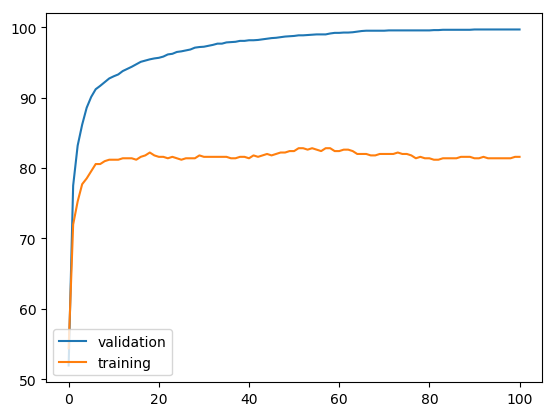
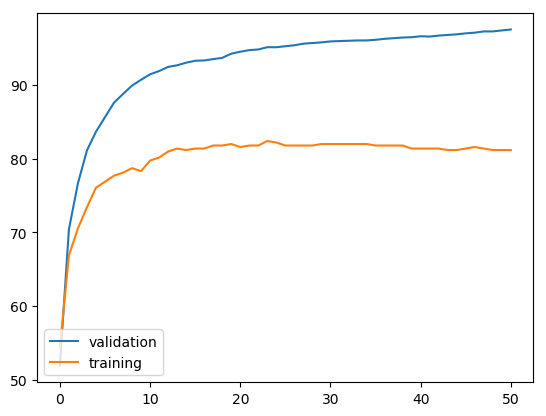
dropout and L2 added

diff --git a/p3/logistic.py b/p3/logistic.py
@@ -1,13 +1,15 @@
 from plot import *
+from const import *
 
 class LogisticRegression(nn.Module):
     def init_weights(self):
-        nn.init.xavier_uniform(self.features[0].weight.data)
-        nn.init.constant(self.features[0].bias, 0.1)
+        nn.init.xavier_uniform(self.features[1].weight.data)
+        nn.init.constant(self.features[1].bias, 0.1)
 
     def __init__(self, input_size, num_classes):
         super(LogisticRegression, self).__init__()
         self.features = nn.Sequential(
+            nn.Dropout(),
             nn.Linear(input_size, num_classes),
             nn.Sigmoid())
         
@@ -16,7 +18,19 @@ class LogisticRegression(nn.Module):
     def forward(self, x):
         return self.features(x)
 
-def train(model, loss_fn, num_epochs, batch_size, learn_rate):
+def L1(model):
+    reg = Variable(torch.FloatTensor(1), requires_grad=True).type(dtype_float)
+    for W in model.parameters():
+        reg = reg + W.norm(1)
+    return reg
+
+def L2(model):
+    reg = Variable(torch.FloatTensor(1), requires_grad=True).type(dtype_float)
+    for W in model.parameters():
+        reg = reg + W.norm(2)
+    return reg
+
+def train(model, loss_fn, num_epochs, batch_size, learn_rate, reg_rate):
     train_x = torch.from_numpy(loadObj('train_x'))
     train_y = torch.from_numpy(loadObj('train_y'))
     train_dataset = torch.utils.data.TensorDataset(train_x, train_y)
@@ -29,10 +43,16 @@ def train(model, loss_fn, num_epochs, batch_size, learn_rate):
     train_acc, valid_acc = list(), list()
     epochs = np.arange(num_epochs + 1)
     num_steps = len(train_dataset) // batch_size
-    optimizer = torch.optim.Adam(model.parameters(), lr=learn_rate)
+
+    optimizer = torch.optim.Adam(
+        model.parameters(),
+        lr=learn_rate,
+        weight_decay=reg_rate)
 
     train_acc.append(test(model,'train'))
     valid_acc.append(test(model,'valid'))
+
+    model.train()
 
     for epoch in range(num_epochs):
         for i, (review, target) in enumerate(train_loader, 1):
@@ -45,9 +65,8 @@ def train(model, loss_fn, num_epochs, batch_size, learn_rate):
             loss.backward()
             optimizer.step()
 
-            if i % batch_size == 0 or i == num_steps:
-                print ('Epoch: [%d/%d], Step: [%d/%d], Loss: %.4f' 
-                    % (epoch+1, num_epochs, i, num_steps, loss.data[0]))
+        print ('Epoch: [%d/%d], Steps: %d, Loss: %.4f' 
+            % (epoch+1, num_epochs, num_steps, loss.data[0]))
 
         train_acc.append(test(model,'train'))
         valid_acc.append(test(model,'valid'))
@@ -64,6 +83,8 @@ def test(model, set, batch_size=10):
         dataset=test_dataset, 
         batch_size=batch_size, 
         shuffle=False)
+    
+    model.eval()
     
     correct, total = 0, 0
     for review, target in test_loader:

diff --git a/p3/fake.py b/p3/fake.py
@@ -1,3 +1,4 @@
+from const import *
 from getdata import *
 from logistic import *
 
@@ -40,8 +41,9 @@ def part4():
         model = LogisticRegression(input_size, num_classes),
         loss_fn = nn.CrossEntropyLoss(),
         num_epochs = 50,
-        batch_size = 10,
-        learn_rate = 1e-3)
+        batch_size = 24,
+        learn_rate = 1e-3,
+        reg_rate = 1e-6)
 
     print('Accuracy on train set: %.2f%%' % test(model,'train'))
     print('Accuracy on test set: %.2f%%' % test(model,'test'))
